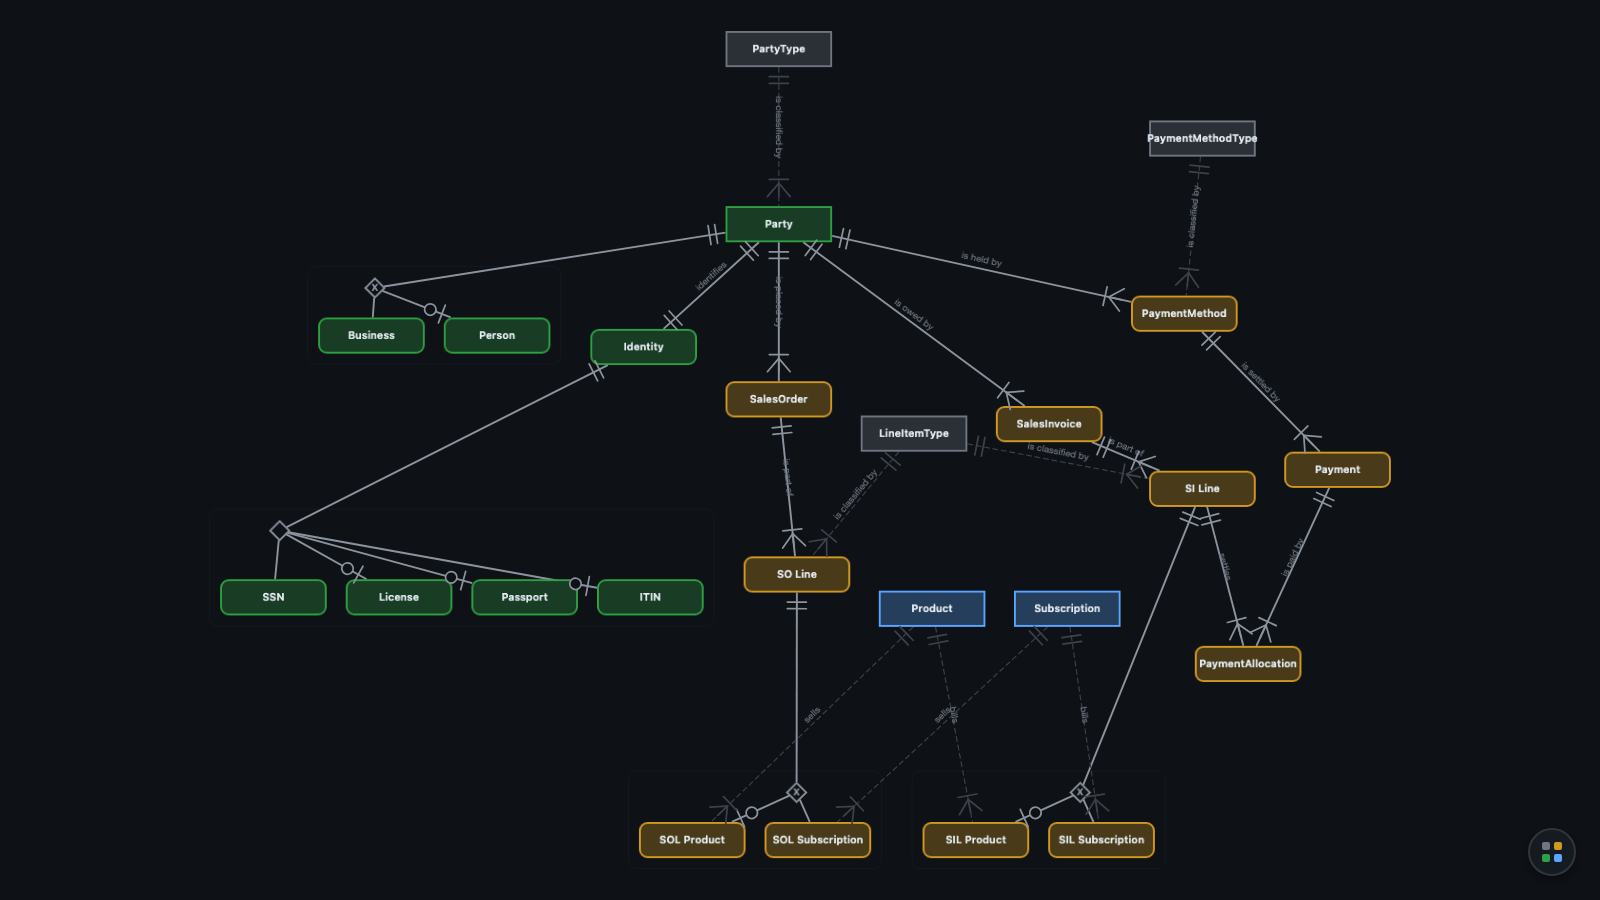
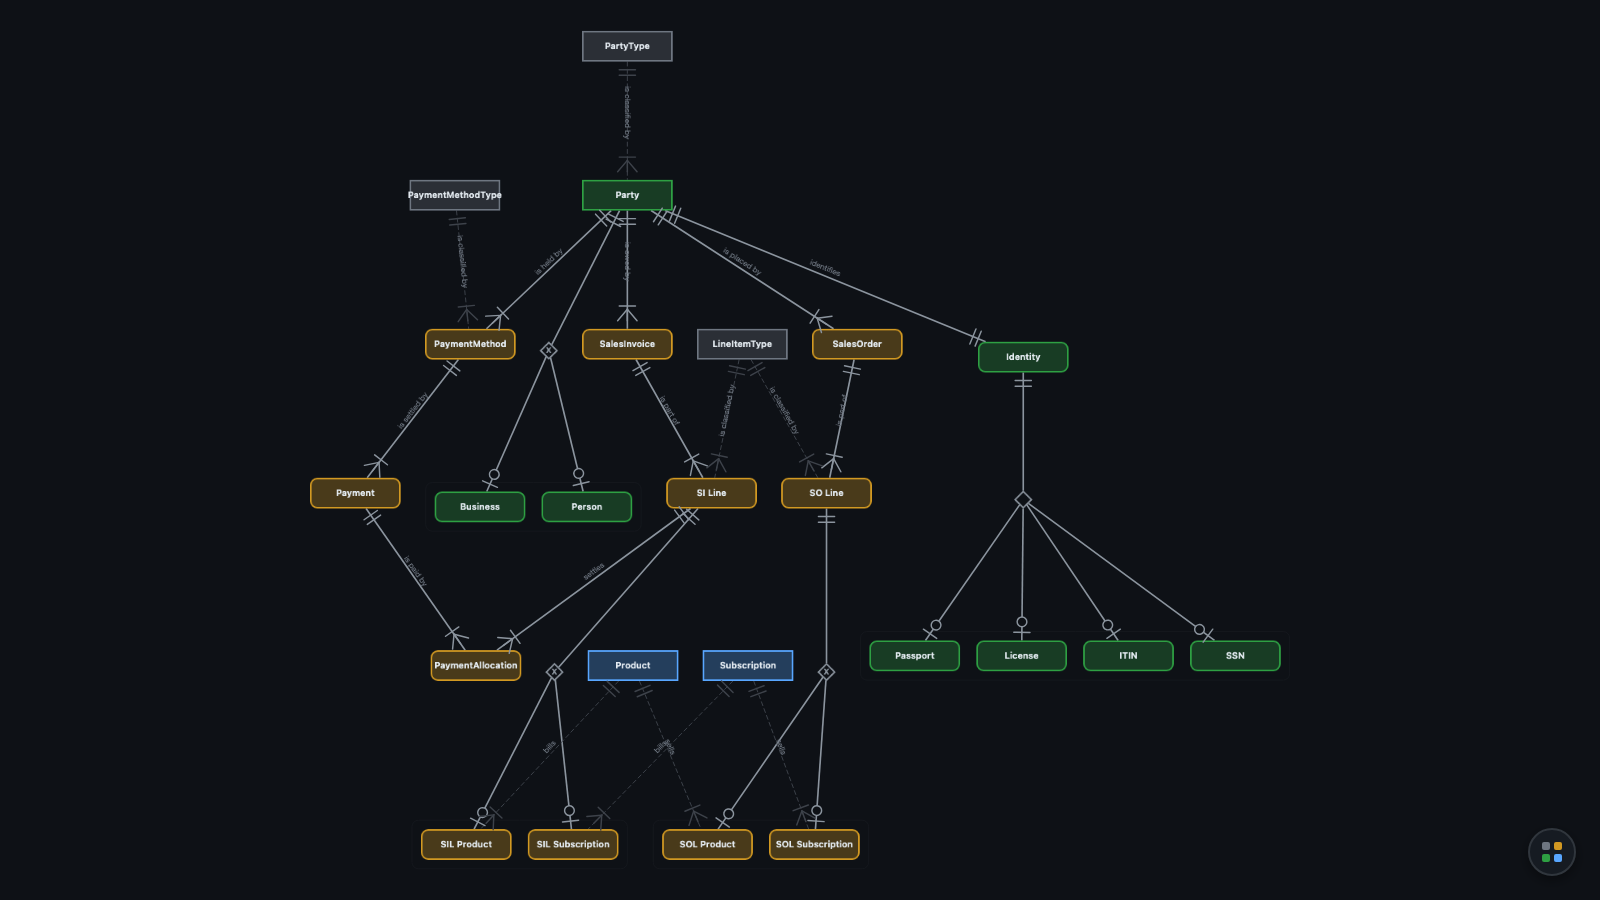
feat: good place

diff --git a/src/App.tsx b/src/App.tsx
@@ -347,11 +347,10 @@ export function App() {
         },
       });
 
-      // Joiner inside the compound
+      // Joiner sits between basetype and compound (not inside it)
       elements.push({
         data: {
           id: joinerId,
-          parent: clusterId,
           label: cluster.exclusive ? 'X' : '',
           joiner: 'true',
           exclusive: String(cluster.exclusive),

diff --git a/docs/design/markdown-driven-erd.md b/docs/design/markdown-driven-erd.md
@@ -7,14 +7,48 @@ A tool for authoring and exploring IDEF1X-style relational data models where:
 
 - The source of truth is markdown. Each entity lives in its own `.md` file with YAML frontmatter for graph structure and a prose body for documentation.
 - The visual is generated, not hand-drawn. A Cytoscape.js graph view is derived deterministically from the markdown corpus using ELK's layered algorithm.
-- Clicking a node shows the entity's rendered markdown documentation in a side panel.
+- Clicking a node opens a modal with the entity's attributes table (auto-generated from frontmatter) and rendered markdown documentation.
 
 
 ## Source Format
 
-One markdown file per entity in a `models/` directory. A `_config.yaml` at the root defines groups and their colors.
+### Directory structure
+
+Entities are organized into folders by group. A `_groups/` folder at the root holds group definitions as markdown files. Paths prefixed with `_` are reserved for meta-content and skipped during entity scanning.
+
+```
+models/
+  _groups/
+    identity.md
+    transactional.md
+    catalog.md
+    reference.md
+  identity/
+    Party.md
+    Person.md
+    Business.md
+    Identity.md
+    License.md
+    Passport.md
+    SSN.md
+    ITIN.md
+  transactional/
+    SalesOrder.md
+    SO_Line.md
+    ...
+  catalog/
+    Product.md
+    Subscription.md
+  reference/
+    PartyType.md
+    ...
+```
+
+The parser scans `**/*.md` recursively, skipping any path segment that starts with `_`.
 
 ### Entity file structure
+
+YAML frontmatter holds all structured graph data. The markdown body is free-form documentation — notes, business rules, admonitions. The attributes table is auto-generated from frontmatter in the UI; it does not live in the body.
 
 ```markdown
 ---
@@ -25,8 +59,8 @@ pk:
   - col_a
   - col_b
 columns:
-  col_a: { type: integer }
-  col_b: { type: text, nullable: true }
+  col_a: { type: integer, desc: "System-assigned identifier" }
+  col_b: { type: text, nullable: true, default: "draft" }
 ak:
   - rule: "unique whatever"
     columns: [col_b]
@@ -38,6 +72,7 @@ relationships:
     predicate: "is part of"
 subtypes:
   - exclusive: true
+    desc: "Each entity is exactly one of ChildA or ChildB"
     members:
       ChildA: { discriminator_col: Classifier.column.VALUE }
       ChildB: { discriminator_col: Classifier.column.OTHER }
@@ -45,25 +80,33 @@ subtypes:
 
 # Entity Name
 
-Prose documentation, attribute tables, business rules, constraints.
+Free-form documentation. Business rules, notes, context.
+No attributes table here — that's generated from the frontmatter.
 ```
 
-### `_config.yaml`
+### Column properties
 
-```yaml
-groups:
-  identity:
-    label: Identity & Accounts
-    color: "#2ea043"
-  transactional:
-    label: Transactional
-    color: "#d29922"
-  catalog:
-    label: Catalog
-    color: "#58a6ff"
-  reference:
-    label: Reference / Enumerable
-    color: "#6e7681"
+| Property | Required | Description |
+|---|---|---|
+| `type` | Yes | Logical type: text, integer, decimal, boolean, date, datetime, binary |
+| `nullable` | No | Default false. Opt-in only. |
+| `default` | No | Logical default value (literal or function name like `now`). Shown in its own column in the UI. |
+| `desc` | No | Brief purpose of this column — what function it serves, why it exists. Not a repeat of the column name. |
+
+### Group file structure
+
+Each group is a markdown file in `models/_groups/` with YAML frontmatter for label and color, and a prose body describing what the group encapsulates.
+
+```markdown
+---
+label: Identity & Accounts
+color: "#2ea043"
+---
+
+Party identity, classifications, and ID documents — the "who" layer.
+
+Covers the core Party basetype, its exclusive subtypes (Business, Person),
+and the inclusive identity document cluster (License, Passport, SSN, ITIN).
 ```
 
 
@@ -110,7 +153,7 @@ An entity can be both Independent and host subtypes (e.g., Party). An entity can
 
 ### Groups are color-only, not spatial
 
-Groups assign border color and pastel background fill to nodes. They do not influence layout proximity. Defined in `_config.yaml`, referenced by `group:` in each entity's frontmatter. Entities without a group fall back to a neutral gray.
+Groups assign border color and pastel background fill to nodes. They do not influence layout proximity. Defined as markdown files in `_groups/`, referenced by `group:` in each entity's frontmatter. Entities without a group fall back to neutral gray (#6e7681).
 
 ### Subtype clusters use diamond joiners
 
@@ -119,7 +162,21 @@ Subtype relationships are visualized by inserting a diamond-shaped joiner node b
 - **Exclusive** (exactly one subtype applies): diamond displays "X". The basetype has a discriminator column.
 - **Inclusive** (any combination of subtypes): diamond is empty. Membership is existence-based.
 
-The identifying edges from subtypes to the basetype are rewired through the joiner for visual clarity.
+The identifying edges from subtypes to the basetype are rewired through the joiner. Subtypes are grouped inside a compound node so ELK keeps them clustered together. The joiner sits outside the compound, centered between the basetype and its subtypes.
+
+### Attributes table is auto-generated
+
+The entity modal renders an attributes table directly from the structured frontmatter data (columns, pk, ak, relationships). The markdown body does not contain an attributes table — it is reserved for free-form documentation.
+
+Column descriptions (`desc`) explain the purpose of a column — what function it serves, why it exists, how it affects the system. They are not a restatement of the column name or a place for default values.
+
+### FK links are navigable
+
+FK references in the attributes table (e.g., `FK → Party`) are clickable links that open the target entity's modal. Users can navigate the entire schema by following FK links without returning to the graph.
+
+### Parent entities show downstream relationships
+
+A "Relationships" table at the bottom of the modal lists all child entities that reference this entity, with clickable links, relationship type, predicate, and derived cardinality.
 
 
 ## Visual Notation
@@ -149,46 +206,91 @@ Custom SVG overlay draws IDEF1X crow's foot notation at each edge endpoint:
 | 0..1 (zero or one) | `\|O` | Bar + hollow circle |
 | many (one or many) | `>\|` | Three-pronged crow's foot + bar |
 
-Markers are drawn on top of the edge line. Colors match their edge (gray for identifying, dark gray for referential). Markers redraw on pan/zoom.
+Markers are drawn on top of the edge line at a 10px offset from the node edge. Colors match their edge (gray for identifying, dark gray for referential). Markers scale proportionally with zoom (clamped 0.5x–2.5x) and redraw on pan/zoom/position changes.
 
 ### Node colors
 
-- Border color: group color from `_config.yaml`
+- Border color: group color from `_groups/*.md`
 - Background fill: pastel (30% mix of group color with dark background #0e1116)
 - Default (no group): neutral gray (#6e7681)
+
+### Layout
+
+ELK layered algorithm with:
+
+- Direction: top-down (DOWN)
+- Orthogonal edge routing
+- Layer spacing: dynamically computed from the longest predicate label (`charCount * 6px + 50px padding`, minimum 80px)
+- Compound nodes for subtype clusters with `INCLUDE_CHILDREN` hierarchy handling
+- NETWORK_SIMPLEX for node placement and layering
+- EDGE_LENGTH post-compaction
+
+
+## UI
+
+### Graph view
+
+Full-viewport Cytoscape canvas with pan/zoom. No sidebar — the graph uses the entire screen.
+
+### Floating action button (FAB)
+
+Bottom-right corner. Shows a 2×2 grid of group color dots. Click to open the groups modal.
+
+### Groups modal
+
+Lists each group with its color swatch, label, and rendered markdown description from `_groups/*.md`.
+
+### Entity modal
+
+Opened by clicking a node. Contains:
+
+1. **Header** — entity name, classification badge, group badge, PK columns
+2. **Attributes table** — auto-generated from frontmatter columns with: name, type, key role (PK/FK/AK with clickable FK links), nullable, default, description
+3. **Markdown body** — rendered prose documentation
+4. **Relationships table** — all child entities referencing this entity, with clickable links, type, predicate, cardinality
+
+Click backdrop or × to close. FK links and relationship links navigate between entity modals.
 
 
 ## Architecture
 
 ```
-models/                    Entity markdown files (one per entity)
-models/_config.yaml        Group definitions with colors
+models/
+  _groups/*.md             Group definitions (frontmatter + prose)
+  <group>/*.md             Entity files organized by group
 
-src/parse.ts               Reads models dir, parses frontmatter, derives cardinality,
+src/parse.ts               Reads _groups/ and entity files recursively,
+                           parses frontmatter, derives cardinality,
                            builds typed Model (nodes, edges, subtypeClusters, groups)
 src/server.ts              Bun.serve() — serves HTML + /api/model JSON endpoint
-src/App.tsx                React app — Cytoscape graph + doc panel
+src/App.tsx                React app — Cytoscape graph + entity/group modals + FAB
 src/markers.ts             SVG overlay for crow's foot cardinality markers
 src/main.tsx               React entry point
 src/index.html             HTML shell
-src/styles.css             Layout and doc panel styles
+src/styles.css             Layout, modal, FAB, and doc styles
 ```
 
 ### Pipeline
 
 ```
-models/*.md
-    │
-    ▼  parse.ts (frontmatter + markdown-it)
-Model { nodes, edges, subtypeClusters, groups }
-    │
-    ▼  /api/model (JSON)
-    │
-    ▼  App.tsx (Cytoscape + ELK layered layout)
-Rendered graph + doc panel
-    │
-    ▼  markers.ts (SVG overlay)
-Crow's foot notation on edges
+models/_groups/*.md  ──►  group configs (label, color, desc HTML)
+                              │
+models/**/*.md       ──►  parse frontmatter + render body
+                              │
+                              ▼
+                    Model { nodes, edges, subtypeClusters, groups }
+                              │
+                              ▼  /api/model (JSON)
+                              │
+                              ▼  App.tsx
+                    ┌─────────┴──────────┐
+                    │                    │
+              Cytoscape + ELK      Entity modal
+              (graph layout)       (attributes + docs)
+                    │
+                    ▼
+              markers.ts (SVG)
+              crow's foot notation
 ```
 
 
@@ -204,6 +306,7 @@ Crow's foot notation on edges
 | Layout engine | ELK (layered algorithm via `cytoscape-elk`) |
 | Frontend framework | React 19 |
 | Cardinality markers | Custom SVG overlay |
+| Screenshots (dev) | Playwright (headless Chromium) |
 
 
 ## Out of Scope